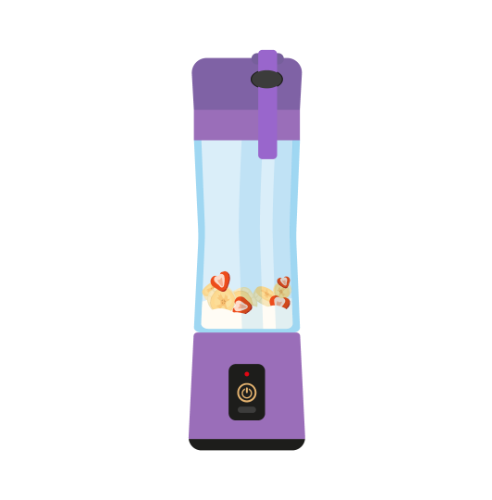
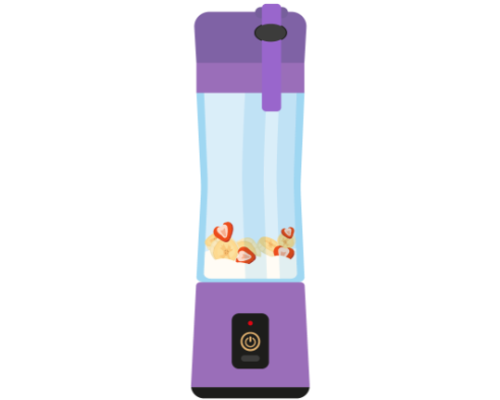
responsive de elementos

Changed region(s): [[0.3659, 0.54, 0.6402, 1.0], [0.3659, 0.0, 0.6402, 0.36], [0.5793, 0.39, 0.6098, 0.42]]

diff --git a/css/styles.css b/css/styles.css
@@ -517,6 +517,7 @@ span {
     .portfolio-container {
         grid-template-columns: 1fr;
     }
+
 }
 
 @media (max-width: 450px) {
@@ -541,11 +542,13 @@ span {
 
 
 /* PROYECTOS */
+.container {
+    display: flex;
+    justify-content: center;
+    align-items: center;
+}
 .blender {
-    position: fixed;
-    left: 50%;
-    top: 50%;
-    transform: translate(-50%, -50%);
+    margin-top: 4rem;
     width: 700px;
     height: 500px;
     background-image: url("../images/licuadoraApagada.png");
@@ -567,5 +570,20 @@ span {
 .licuadora {
     font-size: 4rem;
     text-align: center;
-    margin-top: 150px;
+    margin-top: 11rem;
+}
+
+@media (max-width: 617px) {
+    .licuadora {
+        font-size: 3rem;
+    }
+    .blender {
+        margin-top: 2rem;
+    }
+}
+@media (max-width: 450px) {
+    .blender {
+        width: 500px;
+        height: 400px;
+    }
 }

diff --git a/proyects/licuadora.html b/proyects/licuadora.html
@@ -9,7 +9,7 @@
     <meta name="author" content="Fabrizio Escujuri">
     <meta http-equiv="Content-Language" content="es">
     <link href='https://unpkg.com/boxicons@2.1.4/css/boxicons.min.css' rel='stylesheet'>
-    <link rel="icon" href="./images/fav-icon.png" type="image/x-icon">
+    <link rel="icon" href="../images/fav-icon.png" type="image/x-icon">
     <link rel="stylesheet" href="../css/styles.css">
     <title>Proyecto | Licuadora</title>
 </head>
@@ -37,7 +37,6 @@
     <audio id="blender-button-sound" src="../sounds/botonLicuadora.mp3" type="audio/mpeg"></audio>
     <audio id="blender-sound" src="../sounds/licuadora.mp3" type="audio/mpeg" loop></audio>
     <script src="../js/motor.js"></script>
-    <script src="../js/script.js"></script>
 </body>
 
 </html>

diff --git a/index.html b/index.html
@@ -144,11 +144,11 @@
                 </div>
             </div>
             <div class="portfolio-box">
-                <img src="./images/portfolio.png" alt="">
+                <img src="./images/colmo.png" alt="Agencia Colmo diseño web">
                 <div class="portfolio-layer">
-                    <h4>Proyecto</h4>
-                    <p>asdasd</p>
-                    <a href="">
+                    <h4>Agencia Colmo</h4>
+                    <p>Sitio desarrollado con Wordpress y Elementor</p>
+                    <a href="https://agenciacolmo.com.ar/" target="_blank">
                         <i class='bx bx-link-external'></i>
                     </a>
                 </div>
